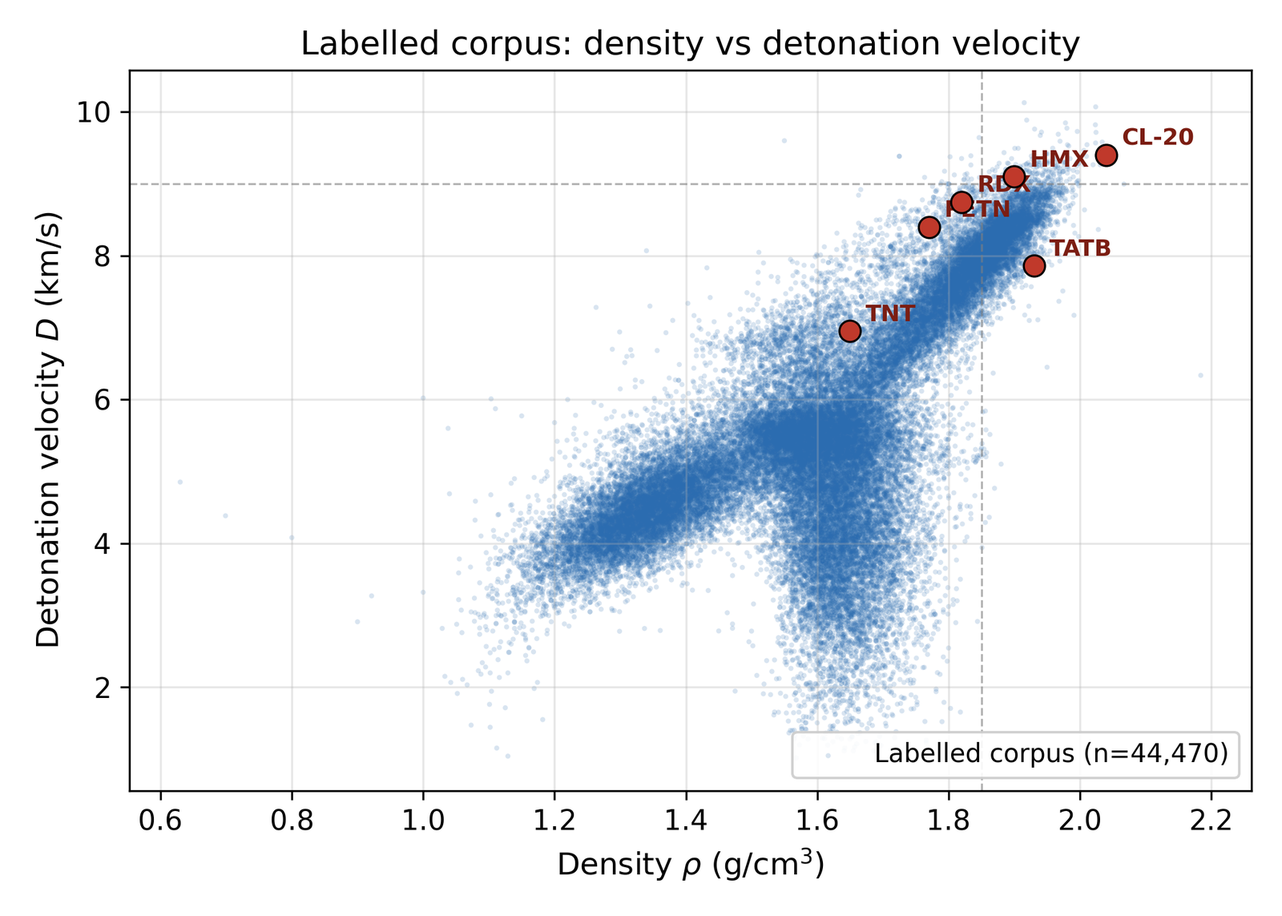
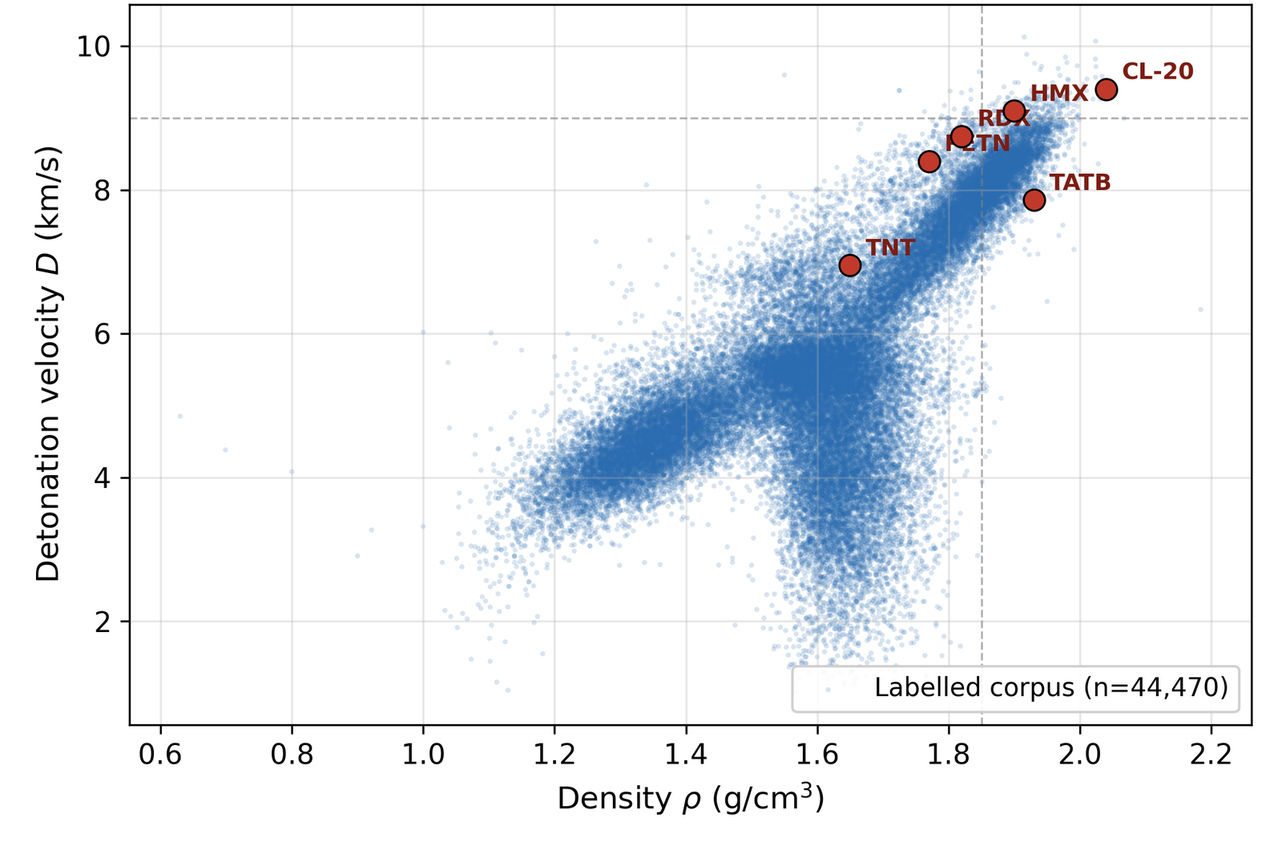
Move self-distillation under labeling: 4(e2) -> 4(d2); shorten captions; crop Fig 2/3 titles; Pareto pseudocode -> prose; drop internal v3/v4-B codes
Figure (a)-(g) re-numbering (self-distillation reframed as part of
data labeling for the guidance head):
  (a) LIMO Training
  (b) Data sampling for denoiser training
  (c) Denoiser Training
  (d1) Labeling for guidance head training (base labels)  [was (d)]
  (d2) Labeling for guidance head training (self-distilled hard
       negatives)  [was (e2)]
  (e) Guidance Training  [was (e1)]
  (f) Sampling / generation
  (g) Filtering

All §4.4, §5.3.3, Appendix C.0/C.1 cross-references swept:
4(e1)->4(e), 4(e2)->4(d2), 4(e1, e2)->4(d2, e), 4(e1, f)->4(e, f).

Other changes in the same commit:
- §4.5 Pareto-front filter: replaced 30-line Python listing with a
  4-step plain-language procedure summary (Score / Mark / Sort /
  Return).
- §4.3, deposit list, Table C.1: dropped the "(internal code v4-B)"
  parenthetical mentions; DGLD-H / DGLD-P stand on their own.
- All §4 figure captions cut to 2-3 lines each.
- Figure 2 (top leads in D,P plane) and Figure 3 (labelled corpus
  density-vs-velocity scatter): cropped the matplotlib suptitle
  off the top of each PNG (auto-detected title band, kept a 4 px
  margin); 1600x647 -> 1600x565 and 1600x1143 -> 1600x1061. Plot
  content unchanged.

Em-dash count: 0.

diff --git a/docs/paper/index.html b/docs/paper/index.html
@@ -209,42 +209,42 @@ Classifier-free guidance avoids the separately-trained property predictor requir
 
 <figure id="fig-4a">
   <img src="figs/fig4a_data_prep.png" width="1600" height="321" alt="DGLD LIMO VAE fine-tuning loop" loading="lazy" style="max-width:900px; width:100%; height:auto; display:block; margin:0 auto;">
-  <figcaption><strong>Figure 4(a). LIMO training.</strong> Property-agnostic SELFIES VAE fine-tuned on the 326k energetic corpus (\(\sim\)8.5k steps, \(\beta=0.01\) ELBO, validation token-acc 64.5%). After fine-tuning the cached latent mean \(\mu\) is the \(z_0\) consumed by (c) and (d, e); architecture and parameter counts in Table&nbsp;C.1.</figcaption>
+  <figcaption><strong>Figure 4(a). LIMO training.</strong> Property-agnostic SELFIES VAE fine-tuned on the 326k energetic corpus (\(\sim\)8.5k steps, ELBO with \(\beta = 0.01\)). The cached latent mean \(\mu\) is the \(z_0\) consumed by (c) and (d1, e). Hyperparameters in Table&nbsp;C.1.</figcaption>
 </figure>
 
 <figure id="fig-4b">
   <img src="figs/fig4b_mask_construction.png" width="1671" height="941" alt="DGLD per-step training mask construction: subset-size sampling, weighted pick, tentative mask, property dropout, CFG dropout, output" loading="lazy" style="max-width:1100px; width:100%; height:auto; display:block; margin:0 auto;">
-  <figcaption><strong>Figure 4(b). Per-step training mask construction.</strong> Fixed per-row inputs (cached at data prep) are eligibility \(c \in \{0,1\}^4\) over \((\rho, \mathrm{HOF}, D, P)\) and graded tier weight \(w\) over A/B/C/D. Five stochastic stages produce the per-step binary mask \(m\): <strong>(1)</strong> subset size \(k \sim \mathrm{Cat}(\{0{:}.10, 1{:}.25, 2{:}.30, 3{:}.25, 4{:}.10\})\); <strong>(2)</strong> weighted pick of \(k\) indices from \(\{i:c_i=1\}\) using \(w\) (uniform if unweighted); <strong>(3)</strong> tentative \(\hat m_i = \mathbb{1}[i\in\text{chosen}]\); <strong>(4)</strong> property dropout, \(\hat m_i' = \hat m_i \cdot \mathbb{1}[u_i \geq 0.30]\) with \(u_i \sim U(0,1)\); <strong>(5)</strong> CFG dropout, \(v \sim U(0,1)\); if \(v<0.10\) set \(m\leftarrow 0\) (whole-row drop trains the unconditional branch), else \(m \leftarrow \hat m'\). Output: final \(m\) (fed to FiLM in (c)) and row weight \(\omega = \alpha + (1-\alpha)\,\mathrm{mean}(w\odot m)\) (default \(\alpha=1.0\): plain MSE).</figcaption>
+  <figcaption><strong>Figure 4(b). Per-step training mask construction.</strong> From cached eligibility \(c\in\{0,1\}^4\) and tier weight \(w\), five stochastic stages produce the per-step mask \(m\): subset-size sampling, weighted pick, tentative one-hot, property dropout (0.30), CFG dropout (0.10). Output \(m\) feeds the FiLM input in (c); details and probabilities in &sect;4.4 and Table&nbsp;C.1.</figcaption>
 </figure>
 
 <figure id="fig-4c">
   <img src="figs/fig4c_denoiser_train.png" width="1672" height="941" alt="DGLD denoiser training: per-step update loop with mask-gated conditioning" loading="lazy" style="max-width:1050px; width:100%; height:auto; display:block; margin:0 auto;">
-  <figcaption><strong>Figure 4(c). Denoiser training.</strong> Per-row inputs are the cached latent \(z_0\), property vector \(p = (\rho, \mathrm{HOF}, D, P)\), conditioning mask \(m \in \{0,1\}^4\) (from (b)) and row weight \(\omega\). Six stages per gradient step: <strong>(1)</strong> sample timestep \(t \sim U(1, T)\); <strong>(2)</strong> sample target noise \(\varepsilon \sim \mathcal{N}(0, I)\); <strong>(3)</strong> forward diffusion \(z_t = \sqrt{\bar\alpha_t}\,z_0 + \sqrt{1-\bar\alpha_t}\,\varepsilon\); <strong>(4)</strong> noise predictor \(\hat\varepsilon = \varepsilon_\theta(z_t, t, p \odot m, \omega)\) (conditioning is enabled only on the \(m\)-selected A/B properties); <strong>(5)</strong> per-sample loss \(\mathcal{L} = \Vert\varepsilon - \hat\varepsilon\Vert^2\), weighted by \(\omega\); <strong>(6)</strong> AdamW update \(\nabla_\theta \mathcal{L}_{\text{weighted}}\) with EMA \(\bar\theta \leftarrow 0.999\,\bar\theta + 0.001\,\theta\). Hyperparameters in Table&nbsp;C.1.</figcaption>
+  <figcaption><strong>Figure 4(c). Denoiser training.</strong> Sample \(t, \varepsilon\); form \(z_t = \sqrt{\bar\alpha_t}\,z_0 + \sqrt{1-\bar\alpha_t}\,\varepsilon\); the FiLM-ResNet predicts \(\hat\varepsilon\) from \((z_t, t, p\odot m)\) where \(m\) (from (b)) gates the property vector. Loss is per-sample MSE \(\Vert\varepsilon - \hat\varepsilon\Vert^2\) weighted by \(\omega\); AdamW + EMA. Hyperparameters in Table&nbsp;C.1.</figcaption>
 </figure>
 
-<figure id="fig-4d">
+<figure id="fig-4d1">
   <img src="figs/fig4e1_data_labeling.png" width="1600" height="900" alt="DGLD score-model data labeling: SMILES + LIMO latent + four label-source models" loading="lazy" style="max-width:1100px; width:100%; height:auto; display:block; margin:0 auto;">
-  <figcaption><strong>Figure 4(d). Labeling for guidance head training.</strong> Four offline pipelines (run once per corpus) generate per-row labels for the score-model heads: Random Forest on Morgan&nbsp;FP+RDKit descriptors (\(y_{\text{viab}}\)), Politzer&ndash;Murray BDE chemotype fit (\(y_{\text{sens}}\)), SMARTS + Bruns&ndash;Watson rules (\(y_{\text{haz}}\)), and 3D-CNN / Uni-Mol smoke-model ensemble (\(y_{\text{perf}} \in \mathbb{R}^4\)). Cached LIMO \(z\) is held separately for (e); validation metrics in Table&nbsp;C.1.</figcaption>
+  <figcaption><strong>Figure 4(d1). Labeling for guidance head training (base labels).</strong> Four offline pipelines (run once per corpus) generate per-row labels: Random Forest \(\to y_{\text{viab}}\); Politzer&ndash;Murray BDE \(\to y_{\text{sens}}\); SMARTS + Bruns&ndash;Watson \(\to y_{\text{haz}}\); 3D-CNN/Uni-Mol smoke ensemble \(\to y_{\text{perf}} \in \mathbb{R}^4\). Cached LIMO \(z\) is held for (e). Sources in Table&nbsp;C.1.</figcaption>
 </figure>
 
-<figure id="fig-4e1">
-  <img src="figs/fig4e1_guide_train.png" width="1671" height="941" alt="DGLD guidance training: shared FiLM-MLP trunk + 4 heads + per-head losses" loading="lazy" style="max-width:1050px; width:100%; height:auto; display:block; margin:0 auto;">
-  <figcaption><strong>Figure 4(e1). Guidance training (base).</strong> Cached LIMO latent \(z\) and the noise schedule \(\bar\alpha_t\) form \(z_t = \sqrt{\bar\alpha_t}\,z + \sqrt{1-\bar\alpha_t}\,\varepsilon\); \(\sigma_t = \sqrt{1-\bar\alpha_t}\) is encoded into a 128-d sinusoidal embedding. Both feed a shared <strong>4-block FiLM-MLP trunk</strong> (1024-d hidden, inputs \((z_t, \sigma_t)\)) emitting a 1024-d feature bus to four heads: <strong>Viability</strong> and <strong>Hazard</strong> (sigmoid, BCE) and <strong>Sensitivity</strong> and <strong>Performance</strong> (\(\hat y_{\text{perf}} \in \mathbb{R}^4 = (\rho, D, P, \mathrm{HOF})\), SmoothL1). Loss is \(\mathcal{L}_{\text{score}} = \sum_k a_k\,w_k\,\mathcal{L}_k\); AdamW, LR \(10^{-4}\) cosine, batch 1024, \(\sim\)40k steps, EMA 0.999. Two further heads (SA, SC) share the same architecture and are trained but inactive in production (Appendix C.4); refinement via (e2).</figcaption>
-</figure>
-
-<figure id="fig-4e2">
+<figure id="fig-4d2">
   <img src="figs/fig4f_self_distillation.png" width="1600" height="649" alt="DGLD viability-head self-distillation: 3 rounds of mine-then-retrain" loading="lazy" style="max-width:1100px; width:100%; height:auto; display:block; margin:0 auto;">
-  <figcaption><strong>Figure 4(e2). Self-distillation refinement.</strong> Three rounds of mine-then-retrain that refine the <strong>Viability head</strong> of the score model (the score model from (e1) is the only network retrained; the denoiser of (c) and the LIMO VAE of (a) are both frozen). Each round samples with the current score model + frozen denoiser, runs the (g) SMARTS gate on the decoded candidates, mines false-positive "cheats" (high predicted viability but rejected by the gate), encodes them through the frozen LIMO encoder as \(y_{\text{viab}}=0\) hard-negative latents, and folds them into the next round's training set (137 \(\to\) 918 negatives). Stopping criterion and step-by-step procedure in Appendix&nbsp;C.1.</figcaption>
+  <figcaption><strong>Figure 4(d2). Labeling for guidance head training (self-distilled hard negatives).</strong> Three rounds of mine-then-retrain that refine the <strong>Viability head only</strong>; the denoiser (c) and LIMO VAE (a) are frozen. Each round samples, gates with (g), encodes false-positives through frozen LIMO as viab\(=\)0 hard negatives, and folds them into the next round's training set (137 \(\to\) 918 negatives). Stopping criterion in Appendix&nbsp;C.1.</figcaption>
+</figure>
+
+<figure id="fig-4e">
+  <img src="figs/fig4e1_guide_train.png" width="1671" height="941" alt="DGLD guidance training: shared FiLM-MLP trunk + 4 heads + per-head losses" loading="lazy" style="max-width:1050px; width:100%; height:auto; display:block; margin:0 auto;">
+  <figcaption><strong>Figure 4(e). Guidance training.</strong> Forward-diffused latent \(z_t\) and the \(\sigma_t\) sinusoidal embedding feed a shared 4-block FiLM-MLP trunk (1024-d) to four production heads: Viability and Hazard (sigmoid/BCE), Sensitivity and Performance (SmoothL1, \(\rho/D/P/\)HOF). Loss is the head-availability-gated sum \(\sum_k a_k w_k \mathcal{L}_k\); AdamW + EMA. Two drug-domain transfer heads (SA, SC) are trained for ablation only (Appendix&nbsp;C.4); training data combines (d1) base labels with the (d2) self-distilled hard negatives.</figcaption>
 </figure>
 
 <figure id="fig-4f">
   <img src="figs/fig4c_sampling_guidance.png" width="1600" height="900" alt="DGLD sampling: DDIM denoise with multi-head guidance" loading="lazy" style="max-width:1000px; width:100%; height:auto; display:block; margin:0 auto;">
-  <figcaption><strong>Figure 4(f). Sampling / generation.</strong> A latent \(z_T \sim \mathcal{N}(0, I_{1024})\) is denoised over \(t = T \to 1\) (40 DDIM steps). The active guidance heads from (e) bundle into a single bus \(\sum_h s_h \nabla_{z_t} \log p_h(c \mid z_t)\) that perturbs \(\varepsilon_\theta\) at every step, yielding a denoised latent \(z_0\) which LIMO decodes to a SMILES pool. Per-head scales \(s_h\) in Appendix&nbsp;C.</figcaption>
+  <figcaption><strong>Figure 4(f). Sampling / generation.</strong> A latent \(z_T\sim\mathcal{N}(0, I_{1024})\) is denoised over 40 DDIM steps with a guidance bus \(\sum_h s_h \nabla_{z_t}\log p_h\) from the active heads of (e1) perturbing \(\varepsilon_\theta\) at every step. The final \(z_0\) decodes through frozen LIMO to a SMILES pool consumed by (g). Per-head scales \(s_h\) in Appendix&nbsp;C.</figcaption>
 </figure>
 
 <figure id="fig-4g">
   <img src="figs/fig4d_decode_rerank.png" width="1600" height="900" alt="DGLD post-sampling: decode, filter, rerank" loading="lazy" style="max-width:1100px; width:100%; height:auto; display:block; margin:0 auto;">
-  <figcaption><strong>Figure 4(g). Filtering.</strong> The decoded SMILES pool from (f) passes a four-stage funnel: Stage&nbsp;1 SMARTS gate (rules + redflags, &sect;4.5), Stage&nbsp;2 Pareto reranker (scaffold-aware composite, &sect;4.5), Stage&nbsp;3 xTB triage (GFN2 + HOMO&ndash;LUMO \(\geq 1.5\)&nbsp;eV, &sect;5.4), and Stage&nbsp;4 DFT audit (B3LYP + \(\omega\)B97X-D3BJ + 6-anchor calibration + Kamlet&ndash;Jacobs, &sect;5.5). Illustrative survivors: 40k \(\to\) 8k chem-pass \(\to\) 100 \(\to\) 12.</figcaption>
+  <figcaption><strong>Figure 4(g). Filtering.</strong> Four-stage funnel on the (f) SMILES pool: Stage&nbsp;1 SMARTS gate, Stage&nbsp;2 Pareto reranker (&sect;4.5), Stage&nbsp;3 xTB triage (&sect;5.4), Stage&nbsp;4 DFT audit (&sect;5.5). Illustrative survivors: 40k \(\to\) 8k chem-pass \(\to\) 100 \(\to\) 12.</figcaption>
 </figure>
 
 <h3>4.1&nbsp;LIMO fine-tuning</h3>
@@ -267,11 +267,11 @@ with guidance scale \(w\in\{5,7,9\}\). Pushing \(w\) higher concentrates the emp
 </figure>
 
 <h3>4.3&nbsp;Denoiser ensemble</h3>
-<p>The production sampler ensembles two complementary denoisers trained with different oversampling schedules. <strong>DGLD-P</strong> (the &rho;/D/P-tilt denoiser, internal code <code>v4-B</code>) applies Tier-A/B-only conditioning with +5&times; high-tail oversampling (top-decile values), <code>weighted_mask=true</code>, and property-dropout 0.30; it excels at meeting the density, detonation-velocity, and detonation-pressure targets simultaneously. <strong>DGLD-H</strong> (the HOF-tilt denoiser, internal code <code>v3</code>) uses asymmetric high-tail oversampling restricted to Tier-A/B, factor 5&times;, focused on the heat-of-formation tail. Sampling each independently and merging candidate pools (followed by canonical-SMILES deduplication) recovers candidates that neither model alone would produce: DGLD-H contributes the majority of high-HOF leads, while DGLD-P contributes the bulk of high-density / high-pressure leads.</p>
+<p>The production sampler ensembles two complementary denoisers trained with different oversampling schedules. <strong>DGLD-P</strong> (the &rho;/D/P-tilt denoiser) applies Tier-A/B-only conditioning with +5&times; high-tail oversampling (top-decile values), <code>weighted_mask=true</code>, and property-dropout 0.30; it excels at meeting the density, detonation-velocity, and detonation-pressure targets simultaneously. <strong>DGLD-H</strong> (the HOF-tilt denoiser) uses asymmetric high-tail oversampling restricted to Tier-A/B, factor 5&times;, focused on the heat-of-formation tail. Sampling each independently and merging candidate pools (followed by canonical-SMILES deduplication) recovers candidates that neither model alone would produce: DGLD-H contributes the majority of high-HOF leads, while DGLD-P contributes the bulk of high-density / high-pressure leads.</p>
 
 <h3>4.4&nbsp;Multi-head score model: training and guidance</h3>
 
-<p>Classifier-free guidance steers generation toward target property values, but it does not directly enforce the chemistry priors that distinguish a viable energetic from a model-cheat polynitro fragment. We add a <em>second</em> guidance signal at sample time, in the spirit of classifier guidance <a class="cite" href="#ref-dhariwal2021diffusion">[15a]</a>, but multi-objective. The signal is supplied by a single shared <strong>multi-head score model</strong> trained offline on the cached LIMO latents. The remainder of this subsection describes (i) data preparation, (ii) per-head label sources, (iii) architecture, (iv) the training objective and schedule, and (v) the sample-time gradient that 4(f) consumes; offline training is depicted in Fig 4(e1, e2).</p>
+<p>Classifier-free guidance steers generation toward target property values, but it does not directly enforce the chemistry priors that distinguish a viable energetic from a model-cheat polynitro fragment. We add a <em>second</em> guidance signal at sample time, in the spirit of classifier guidance <a class="cite" href="#ref-dhariwal2021diffusion">[15a]</a>, but multi-objective. The signal is supplied by a single shared <strong>multi-head score model</strong> trained offline on the cached LIMO latents. The remainder of this subsection describes (i) data preparation, (ii) per-head label sources, (iii) architecture, (iv) the training objective and schedule, and (v) the sample-time gradient that 4(f) consumes; offline training is depicted in Fig 4(d2, e).</p>
 
 <p><strong>(i) Data preparation.</strong> The score model is trained on cached <em>noised</em> LIMO latents, not on raw \(\mu\). At sample time the model is consumed at every DDIM step \(t = T \to 1\), so it must produce a useful guidance gradient at <em>every</em> noise level \(\sigma_t = \sqrt{1-\bar\alpha_t}\), not just at \(\sigma = 0\); training only on clean \(\mu\) would leave it untrained on the high-noise inputs it is queried with at the start of each sampling trajectory. We therefore draw a fresh \(t\sim\mathcal{U}\{1{:}T\}\) and \(\varepsilon\sim\mathcal{N}(0, I)\) per training step and form \(z_t = \sqrt{\bar\alpha_t}\,\mu + \sqrt{1-\bar\alpha_t}\,\varepsilon\) with the same \(\{\bar\alpha_t\}\) schedule as the denoiser (T=1000, cosine). Each batch consists of \((z_t, \sigma_t, y_1, \dots, y_6, a)\) tuples, where \(\sigma_t\) is the noise level fed into the FiLM conditioner (so the same trunk produces different gradients at different noise levels) and \(a \in \{0, 1\}^6\) is the <strong>per-head availability mask</strong> over the score model's six heads (viability, sensitivity, SA, SC, performance, hazard): \(a_k = 1\) iff the row carries a label for head \(k\), 0 otherwise. <em>Notation:</em> we use \(a\) here, distinct from the denoiser's per-property conditioning mask \(m \in \{0, 1\}^4\) of Fig&nbsp;4(b, c); the two have different dimension (6 score-model heads vs 4 conditioning properties), different semantics (label-availability per head vs which properties enter FiLM at this step), and act on different losses. Hard-negative latents from the §4.4(iv) self-distillation loop (918 mined cheats encoded through LIMO; Appendix C.1) are mixed in at a 1:30 ratio against the corpus rows. The training objective is therefore the same noise-conditional score-matching pattern Dhariwal &amp; Nichol <a class="cite" href="#ref-dhariwal2021diffusion">[15a]</a> use for image-domain classifier guidance.</p>
 
@@ -288,7 +288,7 @@ The label-source models are NOT run at sample time. They run once per corpus to 
 
 <p><strong>(iv) Training objective and schedule.</strong> The total loss is a per-head sum, gated by the trust mask \(m\):
 $$\mathcal{L}_{\text{score}} = \sum_k a_k \cdot w_k \cdot \mathcal{L}_k\bigl(\hat y_k(z_t, \sigma_t),\ y_k\bigr),$$
-where \(\mathcal{L}_k\) is binary cross-entropy for the sigmoid heads (Viability, Hazard) and smooth-L1 for the regression heads (Sensitivity, Performance), and \(w_k\) are static head weights chosen so each loss term sits at \(\mathcal{O}(1)\) at convergence (\(w_{\text{viab}}=1.0\), \(w_{\text{sens}}=1.0\), \(w_{\text{hazard}}=1.0\), \(w_{\text{perf}}=0.5\); the SA and SC drug-domain heads have \(w_{\text{SA}}=w_{\text{SC}}=0.25\), Appendix&nbsp;C.4). Optimiser AdamW, peak LR \(10^{-4}\), cosine decay, weight decay \(10^{-4}\), batch size 1024, \(\sim\)40 k steps with EMA decay 0.999. Each round, the model's gated-but-failing tail (small-skeleton polynitro, polyazene chains, gem-tetranitro on C2&ndash;C3) is mined as <strong>hard-negative latents</strong> labelled viab=0 and folded into the next round's training set; we run three rounds of self-distillation (137 negatives \(\to\) 918 negatives) and stop when the held-out anchor/cheat probe (7 anchors, 5 cheats) shows anchors at 0.86&ndash;0.99 and cheats demoted to 0.12&ndash;0.84. Without this step the score model is non-discriminative on held-out cheats; with it, the gradient through the viability head reliably steers off polynitro-on-small-skeleton chemistry. The full 3-round protocol is illustrated in Fig&nbsp;4(e2) (mine-with-current-model, retrain-with-augmented-data) and in Appendix&nbsp;C.1 (pseudocode + stopping criterion + per-round anchor/cheat scores).</p>
+where \(\mathcal{L}_k\) is binary cross-entropy for the sigmoid heads (Viability, Hazard) and smooth-L1 for the regression heads (Sensitivity, Performance), and \(w_k\) are static head weights chosen so each loss term sits at \(\mathcal{O}(1)\) at convergence (\(w_{\text{viab}}=1.0\), \(w_{\text{sens}}=1.0\), \(w_{\text{hazard}}=1.0\), \(w_{\text{perf}}=0.5\); the SA and SC drug-domain heads have \(w_{\text{SA}}=w_{\text{SC}}=0.25\), Appendix&nbsp;C.4). Optimiser AdamW, peak LR \(10^{-4}\), cosine decay, weight decay \(10^{-4}\), batch size 1024, \(\sim\)40 k steps with EMA decay 0.999. Each round, the model's gated-but-failing tail (small-skeleton polynitro, polyazene chains, gem-tetranitro on C2&ndash;C3) is mined as <strong>hard-negative latents</strong> labelled viab=0 and folded into the next round's training set; we run three rounds of self-distillation (137 negatives \(\to\) 918 negatives) and stop when the held-out anchor/cheat probe (7 anchors, 5 cheats) shows anchors at 0.86&ndash;0.99 and cheats demoted to 0.12&ndash;0.84. Without this step the score model is non-discriminative on held-out cheats; with it, the gradient through the viability head reliably steers off polynitro-on-small-skeleton chemistry. The full 3-round protocol is illustrated in Fig&nbsp;4(d2) (mine-with-current-model, retrain-with-augmented-data) and in Appendix&nbsp;C.1 (pseudocode + stopping criterion + per-round anchor/cheat scores).</p>
 
 <p><strong>(v) Sample-time gradient.</strong> At each DDIM step \(t\) with \(\bar\alpha_t\), define \(\sigma_t=\sqrt{1-\bar\alpha_t}\). The guided noise estimate is
 $$\hat\epsilon = \epsilon_\theta^{\text{cfg}}(z_t, t, c) \;-\; \sigma_t \sum_{k\in\{\text{viab},\text{sens},\text{hazard}\}} s_k\,\nabla_{z_t}\,\mathcal{L}_k\big(z_t,\sigma_t\big),$$
@@ -309,39 +309,15 @@ where \(y_k^*\) is the design target and \(\sigma_k\) is the per-property traini
 $$S(x) \;=\; 0.45\, S_{\text{perf}}^{\text{band}}(x) \;+\; 0.20\, S_{\text{viab}}(x) \;+\; 0.15\, S_{\text{novel}}(x) \;+\; 0.20\,\big(1-S_{\text{sens}}(x)\big) \;-\; 0.10\, S_{\text{alerts}}(x),$$
 where \(S_{\text{perf}}^{\text{band}}\) is a saturating banded ramp on each property (capped at 1.0 above the design band, so the model cannot win by extrapolation), \(S_{\text{viab}}\) is the output of the Random-Forest viability classifier (Appendix&nbsp;C, Table&nbsp;C.1), \(S_{\text{novel}}\) is the inverse-Tanimoto novelty in the (0.20, 0.55) window, and \(S_{\text{sens}}\) penalises open-chain N-NO<sub>2</sub> motifs and small-skeleton polynitro patterns.</p>
 
-<p><strong>Pareto-front filter.</strong> The "Pareto" in <em>Pareto reranker</em> refers to a binary stratifier we apply on top of the composite score. A candidate \(x\) is <em>Pareto-dominated</em> by another candidate \(y\) iff \(y\) is at least as good as \(x\) on every objective and strictly better on at least one; the <em>Pareto front</em> is the set of non-dominated candidates. We compute the front over four objectives (maximise perf and viability; minimise sensitivity and alerts), tag each candidate's front-membership, and sort first by front-membership then by composite \(S\). Pareto-front candidates are pulled to the top of the ranking; the composite is the within-stratum tie-breaker. Pseudocode (matches <code>scripts/diffusion/rerank_v2.py</code>):</p>
+<p><strong>Pareto-front filter.</strong> The "Pareto" in <em>Pareto reranker</em> refers to a binary stratifier we apply on top of the composite score. A candidate \(x\) is <em>Pareto-dominated</em> by another candidate \(y\) iff \(y\) is at least as good as \(x\) on every objective and strictly better on at least one; the <em>Pareto front</em> is the set of non-dominated candidates. We compute the front over four objectives (maximise perf and viability; minimise sensitivity and alerts), tag each candidate's front-membership, and sort first by front-membership then by composite \(S\). Pareto-front candidates are pulled to the top of the ranking; the composite is the within-stratum tie-breaker.</p>
 
-<pre style="background:#f6f3ed; border-left:4px solid #b88a25; padding:0.7em 1em; margin:1em 0; font-size:0.9em; line-height:1.4; overflow-x:auto;"><code># Inputs:  pool = list of chem-pass candidates after Stage 1
-# Outputs: top-K candidates, sorted with Pareto-front candidates first
-def pareto_rerank(pool, K):
-    for x in pool:
-        x.composite = (0.45 * S_perf_band(x)   + 0.20 * S_viab(x)
-                     + 0.15 * S_novel(x)       + 0.20 * (1 - S_sens(x))
-                     - 0.10 * S_alerts(x))
-
-    # Pareto front: minimise (-perf, -viab, sens, alerts)
-    pts = [[-S_perf_band(x), -S_viab(x), S_sens(x), S_alerts(x)] for x in pool]
-    on_front = is_pareto_min(pts)         # standard Pareto-front sweep
-    for x, f in zip(pool, on_front):
-        x.pareto = bool(f)
-
-    # Sort: Pareto-front candidates first; within stratum, by composite desc
-    pool.sort(key=lambda x: (not x.pareto, -x.composite))
-    return pool[:K]
-
-def is_pareto_min(points):
-    """Return boolean array: True if point i is on the front."""
-    front = [True] * len(points)
-    for i, p in enumerate(points):
-        for j, q in enumerate(points):
-            if i == j: continue
-            # q dominates p iff q is no-worse on every dim AND strictly-better on one
-            if all(q_d &lt;= p_d for q_d, p_d in zip(q, p)) and any(
-                   q_d &lt;  p_d for q_d, p_d in zip(q, p)):
-                front[i] = False
-                break
-    return front
-</code></pre>
+<p><strong>Procedure summary.</strong> Given a pool of Stage-1 survivors:</p>
+<ol style="margin:0.5em 0 1em 1.4em; line-height:1.55;">
+  <li><strong>Score</strong> each candidate with the composite \(S(x)\) defined above (perf-band, viability, novelty, sensitivity, alerts).</li>
+  <li><strong>Mark</strong> each candidate as on-front or dominated, against the four-objective comparison (\(-\)perf, \(-\)viability, sensitivity, alerts) using a standard pairwise non-dominance sweep.</li>
+  <li><strong>Sort</strong> with a two-key order: Pareto-front candidates first, then non-front; within each stratum by composite descending.</li>
+  <li><strong>Return</strong> the top-\(K\) (default \(K = 100\)).</li>
+</ol>
 
 <p>The Pareto layer is what stops a candidate that maximises the weighted-sum composite from winning when another candidate dominates it on every individual axis. In a typical 40k pool the front is 50&ndash;200 candidates wide; the composite is then the within-front tie-breaker. The candidates returned to the user are the top-\(K\) under this two-key sort (lowest-\(s\) or highest-\(S\) within Pareto-front candidates, then within non-front candidates). Our default \(K = 100\) (the merged top-100 of &sect;5.3.4).</p>
 
@@ -674,7 +650,7 @@ def is_pareto_min(points):
 <p>Energetic-materials discovery has historically advanced one molecule per decade, with HMX (1942), CL-20 (1987), and ONC (1999) defining the modern reference points. The bottleneck is not chemical space coverage but credibility: a generative model that proposes nice-looking SMILES is not actionable unless those SMILES can be triaged by quantum chemistry and synthesis plausibility. DGLD demonstrates that the credibility gate can be assembled from public components (LIMO, 3D-CNN surrogate, xTB, AiZynth) and operated on commodity hardware, and that the productive-quadrant rate is high enough to make wet-lab follow-up worth pursuing. The full pipeline is released as a runnable artefact (§8.1) with the explicit goal of lowering the barrier to entry for the energetics-machine-learning community and adjacent extreme-property discovery problems.</p>
 
 <h3>8.1&nbsp;Code and data availability</h3>
-<p>Trained model checkpoints (LIMO VAE, two conditional latent denoisers DGLD-H and DGLD-P (internal codes <code>v3</code> and <code>v4-B</code>), two multi-head latent score models <code>v3e</code> and <code>v3f</code>, the SELFIES alphabet, and run metadata) are deposited on Zenodo under CC-BY-4.0 with reserved DOI <a href="https://doi.org/10.5281/zenodo.19821953"><code>10.5281/zenodo.19821953</code></a> (draft: <a href="https://zenodo.org/deposit/19821953">zenodo.org/deposit/19821953</a>); the DOI mints on publication of the deposition. Sampling and post-processing scripts (the M1 head-to-head sweep, the Pareto-reranker chemist-filter + 3D-CNN smoke-model rerank, the multi-head score-model training loop) are released as a runnable bundle alongside the manuscript. The labelled master, the augmented unlabelled corpus, and the hard-negative latents are derived from the public sources documented in §A.1 and are redistributed in canonicalised form with row-level provenance.</p>
+<p>Trained model checkpoints (LIMO VAE, two conditional latent denoisers DGLD-H and DGLD-P, two multi-head latent score models, the SELFIES alphabet, and run metadata) are deposited on Zenodo under CC-BY-4.0 with reserved DOI <a href="https://doi.org/10.5281/zenodo.19821953"><code>10.5281/zenodo.19821953</code></a> (draft: <a href="https://zenodo.org/deposit/19821953">zenodo.org/deposit/19821953</a>); the DOI mints on publication of the deposition. Sampling and post-processing scripts (the M1 head-to-head sweep, the Pareto-reranker chemist-filter + 3D-CNN smoke-model rerank, the multi-head score-model training loop) are released as a runnable bundle alongside the manuscript. The labelled master, the augmented unlabelled corpus, and the hard-negative latents are derived from the public sources documented in §A.1 and are redistributed in canonicalised form with row-level provenance.</p>
 
 <!-- ─────────────────────────── 8. Appendix ─────────────────────────── -->
 <h2 id="sec-app">Appendix</h2>
@@ -723,7 +699,7 @@ def is_pareto_min(points):
 
 <h3>C.&nbsp;Model architecture and hyperparameter values</h3>
 
-<p><strong>C.0 Architecture summary.</strong> DGLD instantiates four neural networks plus two non-neural label sources. (1) The <strong>LIMO SELFIES-VAE</strong> (Fig&nbsp;4(a)) encodes every SMILES once into a deterministic 1024-d latent &mu; that the diffusion model treats as its data. (2) The <strong>denoiser</strong> &epsilon;<sub>&theta;</sub> (Fig&nbsp;4(c)) is a 44.6&nbsp;M-parameter FiLM-ResNet that reverses a 1000-step cosine DDPM in latent space; the production sampler ensembles two such denoisers (DGLD-H + DGLD-P, &sect;4.3). (3) The <strong>multi-head score model</strong> (Fig&nbsp;4(e1, f)) is a 4-block FiLM-MLP with a shared 1024-d trunk over (z, &sigma;) and four production heads (viability, sensitivity, hazard, performance) plus two drug-domain transfer heads (SA, SC; Appendix&nbsp;C.4); its per-head autograd gradients are the guidance bus injected into DDIM at every sampling step. (4) Two <strong>external label sources</strong>, run only during training-label preparation, supply the targets for these heads: a Random-Forest viability classifier on Morgan&nbsp;FP+RDKit descriptors, and a Uni-Mol-based 3D smoke-model 2-fold ensemble that emits (&rho;, D, P, T, E, V, HOF, BDE). Numeric layer counts, widths, parameter counts, and training optima for all four networks plus the RF and smoke ensemble are tabulated below in Table&nbsp;C.1.</p>
+<p><strong>C.0 Architecture summary.</strong> DGLD instantiates four neural networks plus two non-neural label sources. (1) The <strong>LIMO SELFIES-VAE</strong> (Fig&nbsp;4(a)) encodes every SMILES once into a deterministic 1024-d latent &mu; that the diffusion model treats as its data. (2) The <strong>denoiser</strong> &epsilon;<sub>&theta;</sub> (Fig&nbsp;4(c)) is a 44.6&nbsp;M-parameter FiLM-ResNet that reverses a 1000-step cosine DDPM in latent space; the production sampler ensembles two such denoisers (DGLD-H + DGLD-P, &sect;4.3). (3) The <strong>multi-head score model</strong> (Fig&nbsp;4(e, f)) is a 4-block FiLM-MLP with a shared 1024-d trunk over (z, &sigma;) and four production heads (viability, sensitivity, hazard, performance) plus two drug-domain transfer heads (SA, SC; Appendix&nbsp;C.4); its per-head autograd gradients are the guidance bus injected into DDIM at every sampling step. (4) Two <strong>external label sources</strong>, run only during training-label preparation, supply the targets for these heads: a Random-Forest viability classifier on Morgan&nbsp;FP+RDKit descriptors, and a Uni-Mol-based 3D smoke-model 2-fold ensemble that emits (&rho;, D, P, T, E, V, HOF, BDE). Numeric layer counts, widths, parameter counts, and training optima for all four networks plus the RF and smoke ensemble are tabulated below in Table&nbsp;C.1.</p>
 
 <p><strong>External label sources are training-time only.</strong> The Random-Forest viability classifier and the 3D-CNN/Uni-Mol smoke-model ensemble are <em>not</em> executed at every diffusion step. They are run once, offline, over the cached training corpus to manufacture the per-row labels (\(y_\text{viab}\), \(y_\rho\), \(y_D\), \(y_P\), HOF, etc.) that the multi-head score model is trained to regress and classify. At sample time, the only networks actually evaluated per DDIM step are the denoiser ensemble and the multi-head score model; the RF and smoke ensemble do not appear in the sampling loop. The smoke ensemble is additionally invoked once per surviving candidate at re-ranking (Stage&nbsp;1) to produce the (8-output) post-rerank property scores.</p>
 
@@ -743,7 +719,7 @@ def is_pareto_min(points):
     <tr><td>Fine-tune steps</td><td>~8500 on 326&nbsp;k energetic-biased SMILES</td></tr>
     <tr><td>Code</td><td><code>combo_bundle/limo_model.py</code> (LIMOVAE class)</td></tr>
 
-    <tr><td rowspan="13">Denoiser &epsilon;<sub>&theta;</sub> (DGLD-P, internal <code>v4-B</code>; Fig 4c)</td><td>Backbone</td><td>FiLM-modulated ResNet, 8 residual blocks, latent 1024, hidden 2048</td></tr>
+    <tr><td rowspan="13">Denoiser &epsilon;<sub>&theta;</sub> (DGLD-P; Fig 4c)</td><td>Backbone</td><td>FiLM-modulated ResNet, 8 residual blocks, latent 1024, hidden 2048</td></tr>
     <tr><td>Per-block layers</td><td>LayerNorm&ndash;Linear(1024&rarr;2048)&ndash;FiLM(&gamma;,&beta;)&ndash;SiLU&ndash;Linear(2048&rarr;1024) with residual add</td></tr>
     <tr><td>Parameter count</td><td>44.6&nbsp;M</td></tr>
     <tr><td>Time-embed dim</td><td>256 (sinusoidal &rarr; 2-layer MLP)</td></tr>
@@ -789,9 +765,9 @@ def is_pareto_min(points):
   </tbody>
 </table>
 
-<p><strong>C.1 Hard-negative augmentation (self-distillation).</strong> Hard negatives are mined from the model's own prior generation pools and are therefore a self-distillation signal: each generation cycle, the gated-but-failing tail of decoded candidates (small-skeleton polynitro, polyazene chains, gem-tetranitro on C2&ndash;C3, trinitromethane variants) is harvested, canonicalised, and re-encoded through the LIMO encoder as additional viab=0 training latents. The score model is trained over three rounds of self-distillation, depicted in Fig&nbsp;4(e2): round 0 trains on the labelled corpus only, samples with the resulting model, mines 137 false-positive cheats via the SMARTS gate, and feeds them as viab=0 latents into round 1; round 1 trains on corpus + 137 cheats, mines additional cheats up to 918 total, and feeds them into round 2; round 2 trains on corpus + 918 cheats and is the production score model. Each round we monitor a held-out anchor/cheat probe (7 anchors: RDX, HMX, TNT, FOX-7, PETN, TATB, NTO; 5 cheats: gem-tetranitro on C2, trinitromethane, gem-dinitrocyclopropane, polyazene-NO<sub>2</sub> chain, dinitromethane) to confirm the round did not regress on anchors; we stop iterating when anchor scores stay at 0.86&ndash;0.99 and cheats are demoted to 0.12&ndash;0.84. Without this step the score model is non-discriminative on held-out cheats; with it, the gradient through the viability head reliably steers away from polynitro-on-small-skeleton chemistry. Appendix&nbsp;E.9 reports an early variant with 137 hard negatives versus the production variant with 918 hard negatives.</p>
+<p><strong>C.1 Hard-negative augmentation (self-distillation).</strong> Hard negatives are mined from the model's own prior generation pools and are therefore a self-distillation signal: each generation cycle, the gated-but-failing tail of decoded candidates (small-skeleton polynitro, polyazene chains, gem-tetranitro on C2&ndash;C3, trinitromethane variants) is harvested, canonicalised, and re-encoded through the LIMO encoder as additional viab=0 training latents. The score model is trained over three rounds of self-distillation, depicted in Fig&nbsp;4(d2): round 0 trains on the labelled corpus only, samples with the resulting model, mines 137 false-positive cheats via the SMARTS gate, and feeds them as viab=0 latents into round 1; round 1 trains on corpus + 137 cheats, mines additional cheats up to 918 total, and feeds them into round 2; round 2 trains on corpus + 918 cheats and is the production score model. Each round we monitor a held-out anchor/cheat probe (7 anchors: RDX, HMX, TNT, FOX-7, PETN, TATB, NTO; 5 cheats: gem-tetranitro on C2, trinitromethane, gem-dinitrocyclopropane, polyazene-NO<sub>2</sub> chain, dinitromethane) to confirm the round did not regress on anchors; we stop iterating when anchor scores stay at 0.86&ndash;0.99 and cheats are demoted to 0.12&ndash;0.84. Without this step the score model is non-discriminative on held-out cheats; with it, the gradient through the viability head reliably steers away from polynitro-on-small-skeleton chemistry. Appendix&nbsp;E.9 reports an early variant with 137 hard negatives versus the production variant with 918 hard negatives.</p>
 
-<p><strong>Procedure summary.</strong> The protocol of Fig&nbsp;4(e2) in five steps, repeated for at most three rounds:</p>
+<p><strong>Procedure summary.</strong> The protocol of Fig&nbsp;4(d2) in five steps, repeated for at most three rounds:</p>
 
 <ol style="margin:0.5em 0 1em 1.4em; line-height:1.55;">
   <li><strong>Train</strong> the score model for \(\sim\)40k AdamW steps on the labelled corpus plus all hard negatives accumulated so far (zero negatives in round 0).</li>
